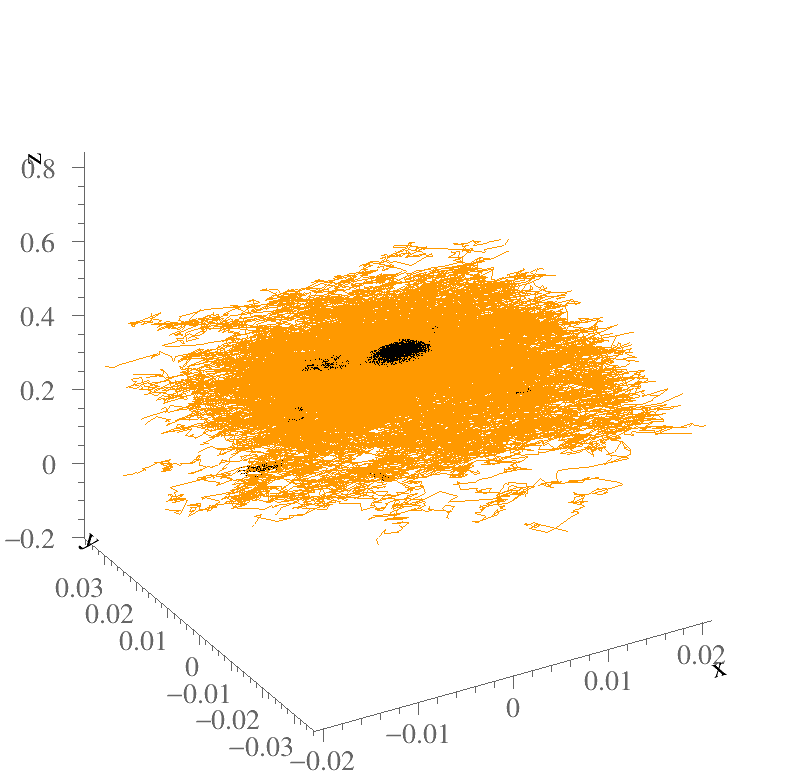
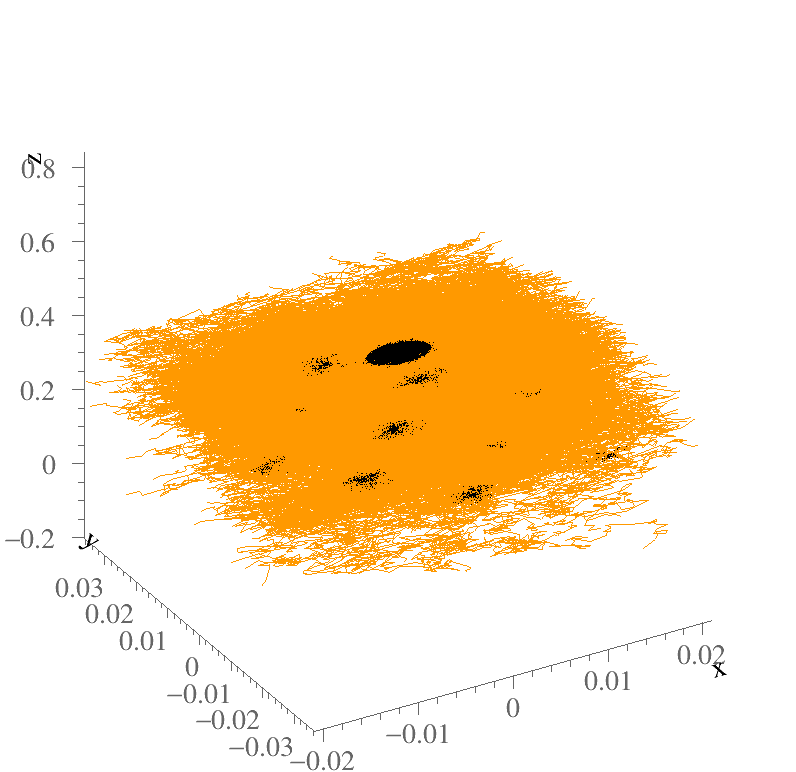
Fix TApplication/X11 hang, cap avalanche size, parameterize e0/injection radius
- Call gROOT->SetBatch(kTRUE) before constructing TApplication in all three
  affected macros: an unreachable $DISPLAY on this cluster could otherwise
  make TApplication's construction hang indefinitely.
- Add AvalancheMicroscopic::EnableAvalancheSizeLimit(2000) in gem_avalanche
  as a safety cap after a run without it hung for 25+ minutes at 3.5+ GB RSS.
- Make e0 (initial electron energy) and the injection radius CLI-configurable
  in gem_avalanche, replacing hardcoded values, to support testing the
  hole-wall-absorption problem at higher initial energies.
- Add docs/debugging_notes.md: consolidated record of the hypotheses tested
  so far for the (still open) GEM1->GEM2 electron transmission problem, the
  Gmsh/Elmer/Garfield++ pipeline gotchas found while building this, and
  candidate next debugging steps.
- Update README status bullet with the 100-event (0/2354 reached GEM2)
  result and a pointer to the new debugging notes doc.

diff --git a/macros/gem_avalanche.cpp b/macros/gem_avalanche.cpp
@@ -12,7 +12,7 @@
  *
  * Usage: gem_avalanche <mesh/result dir> <.gas file> <n events>
  *                       <zSensorMin> <zSensorMax> <zInjection>
- *                       <xHalfCm> <yHalfCm> [output dir]
+ *                       <xHalfCm> <yHalfCm> [e0_eV] [injectionRadiusCm] [output dir]
  *   zSensorMin/Max: the sensor's z bounds [cm], from the induction/transfer
  *     plane at the bottom to the drift plane at the top (see the model's
  *     printed electrode potentials, or its mesh cross-section plot, for
@@ -22,6 +22,9 @@
  *   xHalfCm/yHalfCm: the built model's x/y half-extent [cm] -- pitch/2 and
  *     pitch*sqrt(3)/2 for a single unit cell, or n_cells_x/y times that for
  *     a tiled model (see geometry/triple_gem_field_model.py).
+ *   e0_eV: initial electron energy [eV], default 0.1 (roughly thermal).
+ *   injectionRadiusCm: each electron's (x, y) is offset from the hole axis
+ *     by a random radius in [0, injectionRadiusCm], default 0.0005 cm (5 um).
  */
 
 #include <cmath>
@@ -60,10 +63,18 @@ int main(int argc, char* argv[]) {
   const double zInjection = std::stod(argv[6]);
   const double xHalfCm = std::stod(argv[7]);
   const double yHalfCm = std::stod(argv[8]);
-  const std::string outDir = argc > 9 ? std::string(argv[9]) + "/" : "./";
+  const double e0 = argc > 9 ? std::stod(argv[9]) : 0.1;
+  const double injectionRadiusCm = argc > 10 ? std::stod(argv[10]) : 0.0005;
+  const std::string outDir = argc > 11 ? std::string(argv[11]) + "/" : "./";
 
-  TApplication app("app", &argc, argv);
+  // Must come *before* constructing TApplication: otherwise TApplication's
+  // own construction tries to connect to the X11 display named by $DISPLAY,
+  // which on this cluster is set but not actually reachable (SSH X11
+  // forwarding isn't really working here) -- that connection attempt can
+  // hang for a very long time (seen directly: one run sat at ~0% CPU
+  // producing no output at all). Setting batch mode first heads it off.
   gROOT->SetBatch(kTRUE);
+  TApplication app("app", &argc, argv);
 
   MediumMagboltz gas;
   if (!gas.LoadGasFile(gasFile)) {
@@ -90,8 +101,14 @@ int main(int argc, char* argv[]) {
   aval.SetSensor(&sensor);
   aval.EnablePlotting(&driftView);
   aval.SetCollisionSteps(100);
+  // Safety cap: a run with 150 events at the default settings was killed
+  // after 25+ minutes and 3.5+ GB RSS with no sign of finishing -- almost
+  // certainly one event's avalanche growing pathologically large (or stuck)
+  // rather than genuinely needing that much computation. Bound it so a
+  // single bad event cannot hang the whole run; GetAvalancheSize() still
+  // reports whatever size it reached when cut off.
+  aval.EnableAvalancheSizeLimit(2000);
 
-  const double e0 = 0.1;  // initial electron energy [eV]
   const double t0 = 0.;
 
   std::vector<int> gains;
@@ -100,7 +117,7 @@ int main(int argc, char* argv[]) {
   for (int i = 0; i < nEvents; ++i) {
     // Small random offset around the hole axis, matching the now-deleted
     // prototype's convention (test/gem_simulation/gem_avalanche.C).
-    const double r = 0.0005 * RndmUniform();
+    const double r = injectionRadiusCm * RndmUniform();
     const double phi = 2. * M_PI * RndmUniform();
     const double x0 = r * std::cos(phi);
     const double y0 = r * std::sin(phi);

diff --git a/macros/view_gem_field.cpp b/macros/view_gem_field.cpp
@@ -39,8 +39,11 @@ int main(int argc, char* argv[]) {
   const double zMin = argc > 2 ? std::stod(argv[2]) : -0.25;
   const double zMax = argc > 3 ? std::stod(argv[3]) : 0.45;
 
-  TApplication app("app", &argc, argv);
+  // Must come before constructing TApplication -- see gem_avalanche.cpp's
+  // comment on the same lines for why (avoids a possible hang trying to
+  // reach an unreachable $DISPLAY).
   gROOT->SetBatch(kTRUE);  // headless: only ever save canvases to files, never show them
+  TApplication app("app", &argc, argv);
 
   // The gas composition only needs to be set (not Initialise()'d with a full
   // Magboltz table) to view the field map: transport tables are only needed

diff --git a/macros/view_gem_avalanche_cross_section.cpp b/macros/view_gem_avalanche_cross_section.cpp
@@ -58,8 +58,11 @@ int main(int argc, char* argv[]) {
   const double yHalfCm = std::stod(argv[10]);
   const std::string outDir = argc > 11 ? std::string(argv[11]) + "/" : "./";
 
-  TApplication app("app", &argc, argv);
+  // Must come before constructing TApplication -- see gem_avalanche.cpp's
+  // comment on the same lines for why (avoids a possible hang trying to
+  // reach an unreachable $DISPLAY).
   gROOT->SetBatch(kTRUE);
+  TApplication app("app", &argc, argv);
 
   MediumMagboltz gas;
   if (!gas.LoadGasFile(gasFile)) {

diff --git a/docs/debugging_notes.md b/docs/debugging_notes.md
@@ -1,0 +1,137 @@
+# デバッグメモ: 3段GEM電子雪崩シミュレーション
+
+2026-09-22時点の状況整理。`README.md`のステータス欄は要約のみなので、経緯・仮説検証・
+未解決問題の詳細はこちらに残す。
+
+## 現在のオープンな問題
+
+3段GEMスタック（ドリフト側から100→50→50µm、`geometry/triple_gem_field_model.py`）で
+電子雪崩を計算すると、**GEM1で発生した二次電子がほぼ100%GEM2に到達しない**。
+
+100イベント（合計2354個の電子終端点）を回した結果:
+
+```
+status -7 (StatusAttached, 正味の付着): 6
+status -5 (StatusLeftDriftMedium, 孔壁に衝突): 2354
+Mean gain = 23.54 +/- 30.12 (n = 100)
+```
+
+GEM2に到達した電子（status上は孔を抜けて次段のガス領域に入る）は**ゼロ**。2354トライ
+アルで0成功なので、真の透過率の95%上限は概算で0.1%程度 — 実機のGEM（透過率は条件に
+よるが数十%〜90%程度が普通）と比べて明らかに異常な低さ。統計を増やせば通るように
+なるという「統計不足」の話ではなく、系統的な効果である可能性が高い。
+
+## これまでに検証した仮説
+
+ユーザーの指摘を1つずつ潰していった記録。
+
+1. **「induction/transfer電場が弱いのでは」** →
+   `macros/probe_field.cpp`でGEM1孔出口付近の電場を直接プローブ。電場の向きが反転して
+   いる箇所はなく、単調に押し出す方向を維持していることを確認。→ **電場の向きは問題
+   ではないと判断**（ただし「向きは正しいが大きさが拡散に対して不十分」という、より
+   踏み込んだバージョンは未検証 — 下記「次の一手」参照）。
+
+2. **「十分遠方からドリフト電子が入射してくるはず。近すぎるのでは」** →
+   注入距離を変えて比較（近傍/中間/遠方）。遠くから注入するほどむしろ悪化した。
+   → **反証**（拡散が働く時間が増えるだけで、孔に入る前に外れる確率が上がる）。
+
+3. **「方向や速度の設定が微妙に間違っているのでは」** →
+   実際にバグを発見: `AvalancheElectron()`の末尾(dx,dy,dz)引数を`(0,0,0)`にしていたが、
+   Garfield++はこれを「ランダムな初期方向をサンプルする」という意味に解釈する
+   （「初期ドリフトなし」ではない）。ドリフト方向`(0,0,-1)`に修正済み
+   （`macros/gem_avalanche.cpp`, `macros/view_gem_avalanche_cross_section.cpp`）。
+   → **実在のバグだったので修正したが、根本問題（孔壁吸収）は解消しなかった**。
+   雪崩で発生する二次電子は電離が起きたその場でGarfieldが物理的に方向を決めるため、
+   この修正は初期電子（primary）の挙動にしか効かない。
+
+4. **「その周り（中心セル）にいくつかのセルを生成しておくと効果があるのでは」** →
+   単一の六角ユニットセルではなく3x3タイル化を実装
+   （`geometry/gem_unit_cell.hole_centers_tiled`, `TripleGemTestConfig.n_cells_x/y`）。
+   終端ステータスを`StatusLeftDriftArea`（センサー境界を横に抜けた=境界アーティファクト）
+   と`StatusLeftDriftMedium`（孔壁に衝突=物理的な吸収）に分けて集計したところ:
+   - `StatusLeftDriftArea`由来の損失（単一セルで約16%）は3x3タイル化で**完全にゼロ**に
+     なった → 単一セルの境界アーティファクトだったと確認。
+   - `StatusLeftDriftMedium`由来の損失（約84%）は**タイル化前後で変化なし** →
+     境界アーティファクトでは説明できない、別の要因。
+
+5. **「一度に打ち込む電子の数を増やしてみては／統計を増やしては」** →
+   `e0`と注入半径をCLI引数化した上で100イベント（合計2354終端点）を実行。
+   結果は上記の通り**0/2354でGEM2到達ゼロ** → 統計不足ではないことを確認。
+
+6. **「現実問題もう少し電子がエネルギーを持っているのでは」** → **未検証**
+   （`e0`（初期エネルギー, デフォルト0.1eV）をCLI引数化済み。高エネルギー側でのテスト
+   はまだ実施していない。下記「次の一手」参照）。
+
+## 次の一手候補（未着手）
+
+- **トランスファー電場の大きさを振ってみる**: 仮説1は「電場の向き」しか検証していない。
+  向きは正しくても、この細い孔（GEM1: 半径17.5〜32.5µm程度）を電子が拡散に負けずに
+  抜けるには電場が弱すぎる、という可能性はまだ残っている。診断目的で
+  `TripleGemTestConfig`のtransfer電場を意図的に強くしたモデルを再ビルドし、透過率が
+  改善するか見るのが早い。
+- **`e0`（初期エネルギー）を上げてテスト**: 仮説6がまだ手つかず。
+  `gem_avalanche`の`e0_eV`引数（デフォルト0.1）を1.0, 5.0, 10.0あたりで振って
+  status -5 / -7 / 到達の比率が変わるか比較する。
+- 上記2つのどちらも効かない場合、「実際のGEM孔形状に対してこの拡散量・メッシュ密度
+  でのマイクロスコピック輸送計算自体が何かおかしい」という、よりモデル寄りの可能性も
+  検討する必要がある。
+
+## パイプライン構築時に踏んだ落とし穴（Gmsh → Elmer → Garfield++）
+
+こちらは物理の問題ではなく、素朴にハマったバグ・仕様。同種の変更をする際は再確認。
+
+1. **OCCで作った接触ボリュームは`gmsh.model.occ.fragment()`が必要。** 個別に`cut()`
+   しただけだと幾何学的に接しているだけでメッシュはconformalにならない
+   （ElmerGridが"mesh is non-conforming"と警告）。境界を共有する全ボリュームを
+   `synchronize()`/メッシュ生成前に`fragment()`し、物理グループのタグをfragment結果の
+   マップから付け直す。
+2. **ElmerGridは境界（および場合によってはボリューム）の物理グループIDを振り直す。**
+   Gmsh側で付けたタグはそのままでは使えず、`.sif`の`Target Bodies`/`Target Boundaries`
+   は`ElmerGrid`実行後に生成される`mesh.names`から読み取ったIDを使う必要がある。
+3. **`ComponentElmer`の第4引数は`mesh.boundary`ではなく誘電率ファイル。** シグネチャは
+   `ComponentElmer(header, elist, nlist, mplist, volt, unit)`。`dielectrics.dat`の
+   フォーマット: 1行目=配列サイズ、以降`<id(未使用)> <epsilon>`を1行ずつ、行の並び順が
+   意味を持つ（IDそのものは読み捨てられる）。
+4. **Garfield++向けのElmerメッシュは2次（10節点）四面体が必須。** デフォルトの
+   `gmsh.model.mesh.generate(3)`は1次（4節点）を作るので、`generate(3)`の後に
+   `gmsh.model.mesh.setOrder(2)`を呼ぶ。
+5. **`Simulation`ブロックに`Output File = "<name>.result"`が必要。** これがないと
+   `.vtu`（ParaView用）だけが出力され、`ComponentElmer`が読む`.result`が生成されない
+   ままElmerはエラーなく正常終了する。
+6. **孔の空洞には明示的なGasボリュームが必要。** Cu/誘電体ブロックから孔を`cut()`で
+   くり抜くだけだと、その空間は本当に「何もない」空洞になり、Gmshのメッシャーは
+   警告なく無視する（ログに"Found void region"と出るだけ）。カット用と同じ形状の
+   ソリッドをもう一つ作り、`fragment()`とGas物理グループに含める必要がある
+   （`gem_unit_cell.build_hole_gas_volumes`）。
+7. **`ComponentElmer`は`mesh.elements`のボディIDから内部で1を引く。** `mesh.names`は
+   1始まりのID（例: `Gas = 1`）を報告するが、`SetMedium(imat, ...)`/`DriftMedium(imat)`
+   やdielectrics.datのスロット位置は`body_id - 1`を使う必要がある。ここを間違えても
+   クラッシュせず、電場・電位の数値自体は正しいまま`status`（ドリフト媒質かどうかの
+   判定）だけが静かに壊れる — 一番見つけにくいバグだった。
+8. **単一の六角ユニットセルには、横方向に拡散した電子が入れる「隣の孔」が存在しない。**
+   上の「オープンな問題」節の仮説4を参照。3x3タイル化で対処可能だが、孔壁への吸収
+   自体は解決しない。
+9. **`AvalancheElectron()`の(dx,dy,dz)を(0,0,0)にすると「ランダム方向」を意味する。**
+   上の仮説3を参照。「初期速度なし」ではないので要注意。
+
+## 実行環境・運用まわりで踏んだトラブル
+
+- **`TApplication`構築前に`gROOT->SetBatch(kTRUE)`を呼ばないとハングすることがある。**
+  このクラスタでは`$DISPLAY`が設定されているが実際には接続できない（X11 forwardingが
+  機能していない）。`TApplication app(...)`を先に構築すると、その接続試行で無期限に
+  ハングしうる（CPU使用率ほぼ0%、出力なしのまま応答なし、という形で発現した）。
+  `gem_avalanche.cpp` / `view_gem_avalanche_cross_section.cpp` / `view_gem_field.cpp`
+  の3マクロ全てで、`SetBatch(kTRUE)`を`TApplication`構築より前に移動して修正済み。
+- **`AvalancheMicroscopic::EnableAvalancheSizeLimit()`が必須。** 上限なしで150イベント
+  流したところ、25分以上・RSS 3.5GB以上経過しても終わらないプロセスが発生（おそらく
+  1イベントの雪崩が病的に大きく/詰まって成長し続けていた）。`EnableAvalancheSizeLimit
+  (2000)`で単一イベントの暴走が全体を止めないようにした。`GetAvalancheSize()`は上限で
+  打ち切られたサイズをそのまま返す。
+
+## 関連ファイル
+
+- `macros/gem_avalanche.cpp` — 本番の雪崩ゲイン計算マクロ（3段対応、CLI引数化済み）
+- `macros/probe_field.cpp` — 任意の(x,y,z)点での電場・電位を直接プローブする診断ツール
+- `macros/view_gem_avalanche_cross_section.cpp` — 断面(x-z)での雪崩可視化
+- `geometry/gem_unit_cell.py` — `hole_centers_tiled`など、単位セル/タイル化ジオメトリ
+- `geometry/triple_gem_field_model.py` — 3段GEMモデル（`TripleGemTestConfig`）

diff --git a/README.md b/README.md
@@ -90,6 +90,7 @@ cmake --install .
       Garfield++での電位分布も各GEMホールで妥当な漏斗形状を確認済み
 - [~] 3段GEMでの電子雪崩・ゲイン計算: 単位セル1個では二次電子が100%孔の壁に吸収され
       GEM2に到達しない問題を発見。3x3セルにタイル化して境界アーティファクト由来の損失
-      (16%)はゼロにできたが、孔の壁そのものへの吸収(84%)は残ったまま — 未解決の
-      オープンな問題（`macros/probe_field.cpp`, `gem_unit_cell.hole_centers_tiled`,
-      メモリの`gmsh_elmer_garfield_pipeline_gotchas`参照）
+      (16%)はゼロにできたが、孔の壁そのものへの吸収(84%)は残ったまま。100イベント
+      (終端点2354個)まで統計を増やしても到達ゼロを確認し、統計不足ではなく系統的な
+      効果であることを確認 — 未解決のオープンな問題。検証済み/未検証の仮説一覧・
+      次の一手候補・パイプライン構築時の落とし穴は `docs/debugging_notes.md` 参照
